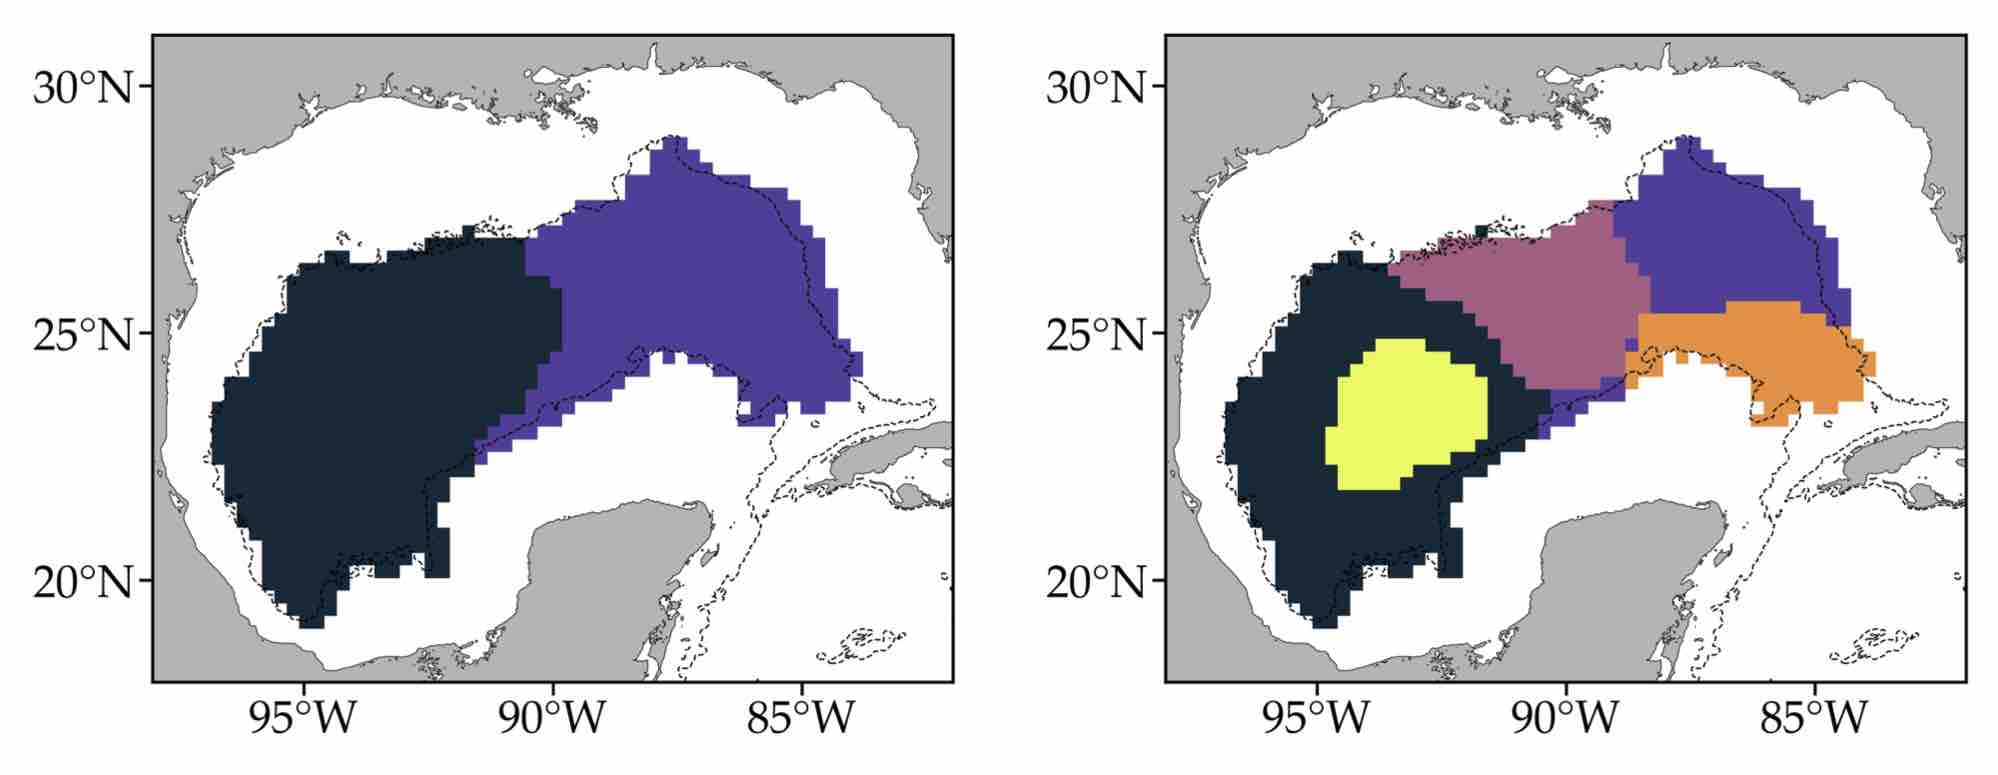
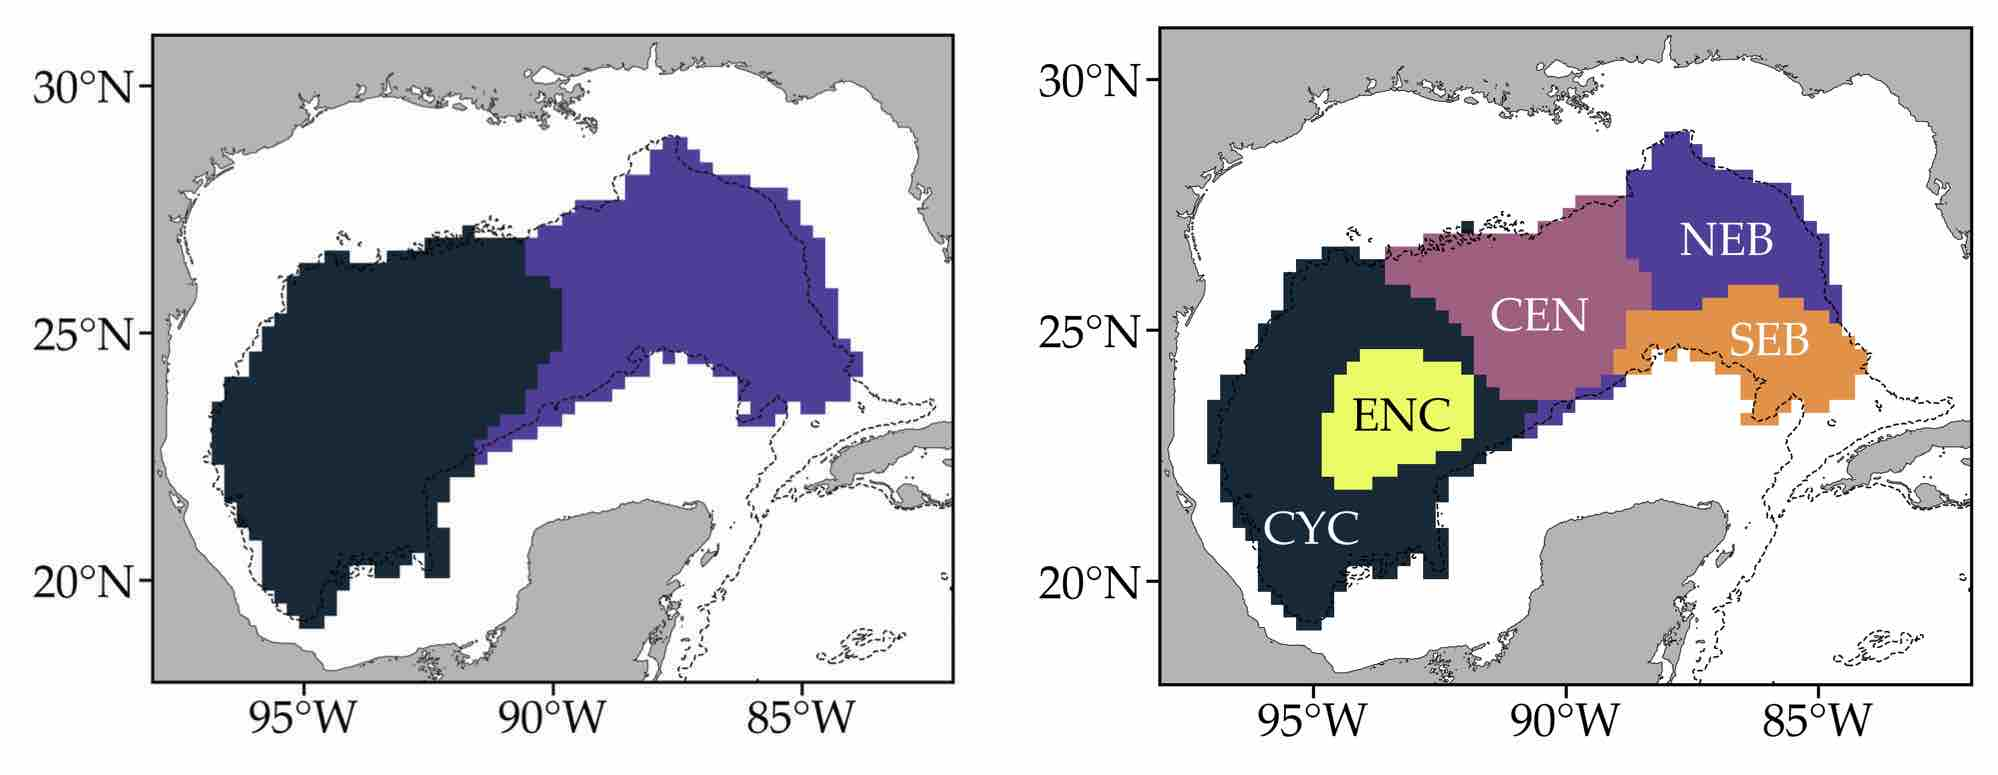
modify the theory sections and added connectivity and hitting time matrices

Changed region(s): [[0.4965, 0.031, 0.993, 0.96]]

diff --git a/2018. Deep floats (AGU)/main.tex b/2018. Deep floats (AGU)/main.tex
@@ -9,7 +9,7 @@
 % package/program, I grant the extra permission to freely copy and
 % modify this file as you see fit and even to delete this copyright
 % notice.
-\documentclass[show notes]{beamer}
+\documentclass[notes]{beamer}
 % There are many different themes available for Beamer. A comprehensive
 % list with examples is given here:
 % http://deic.uab.es/~iblanes/beamer_gallery/index_by_theme.html
@@ -49,17 +49,16 @@
 % A subtitle is optional and this may be deleted
 %\subtitle{Optional Subtitle}
 
-\author{Philippe Miron\inst{1},  Francisco J. Beron-Vera\inst{1}, Mar\'ia J. Olascoaga\inst{1} and Gary Froyland\inst{2}}
-
+\author{Philippe Miron\inst{1},  Francisco J. Beron-Vera\inst{1}, Mar\'ia J. Olascoaga\inst{1}, J.\ Sheinbaum\inst{2}, P.\ P\'erez-Brunius\inst{2} and Gary Froyland\inst{3}}
 \institute
 {
   \inst{1}%
   RSMAS University of Miami, Miami, USA
-  %\and
-  %\inst{2}%
-  %RSMAS/OCE University of Miami, Miami, USA
   \and
-  \inst{2}%
+  \inst{2}
+  CICESE, Ensenada, Mexico
+  \and
+  \inst{3}%
   University of New South Wales, Sydney, Australia
   }
 % - Use the \inst command only if there are several affiliations.
@@ -101,14 +100,14 @@
 % titlepage logo
 \titlegraphic{
 \begin{tikzpicture}[overlay, remember picture]
+%\node[at=(current page.south west), anchor=south west] {%
+% \includegraphics[height=.10\textwidth]{carthe.png} 
+%};
 \node[at=(current page.south west), anchor=south west] {%
- \includegraphics[height=.10\textwidth]{carthe.png} 
-};
-\node[at=(current page.south), anchor=south] {%
- \includegraphics[height=.13\textwidth]{cigom.jpg} 
+ \includegraphics[height=.18\textwidth]{cigom.jpg} 
 };
 \node[at=(current page.south east), anchor=south east] {
- \includegraphics[height=.10\textwidth]{um-rsmas.png}
+ \includegraphics[height=.14\textwidth]{um-rsmas.png}
 };
 \end{tikzpicture}
 }
@@ -140,8 +139,8 @@
 \pgfplotsset{compat=1.12}
 
 % Definitions.
-\def\vol{\mathop{\rm area}}
-
+\DeclareMathOperator{\area}{area}%
+\DeclareMathOperator{\Id}{Id}%
 \newcommand{\PF}{\mathcal{P}}
 \newcommand{\ia}{\textit{a}}
 \newcommand{\ib}{\textit{b}}
@@ -152,6 +151,7 @@
 \let\vaccent=\v 
 \renewcommand{\v}[1]{\ensuremath{\mathbf{#1}}} 
 \newcommand{\minus}{\scalebox{0.5}[1.0]{$-$}}
+\newcommand{\dif}{\ensuremath{\text{d}}}
 
 % Let's get started
 \begin{document}
@@ -183,14 +183,16 @@ Over the last twenty five years, many satellite-tracked surface drifters sampled
 \frame{\frametitle{Introduction}
 In contrast, very few studies were aimed at the characterization of the deep water global circulation. 
 \newline\newline
-RAFOS experiments sponsored by the Bureau of Ocean Energy Management (July 2011 - May 2015) courtesy Alexis Lugo Fernandez:
+RAFOS experiment sponsored by the Bureau of Ocean Energy Management (July 2011 - May 2015):
 \begin{itemize}
+\item 4-year-long program (floats $\sim 2$-y mission)
 \item 121 floats at 1500\,m
+\item 6 profiling floats with RAFOS technology at 1500\,m
 \item 31 floats at 2500\,m
-\item 4-year mission (floats $\sim 2$-y mission and are redeployed)
+
 \end{itemize}
 
-\textit{Publicly available data sets compiled by WOCE Subsurface Float Data Assembly Center (WFDAC)}\footnote{\url{http://www.aoml.noaa.gov/phod/float_traj/data.php}}
+\textit{Publicly available data sets compiled by WOCE Subsurface Float Data Assembly Center (WFDAC).}\footnote{\url{http://www.aoml.noaa.gov/phod/float_traj/data.php}}
 }
 
 \section{Objectives}
@@ -199,127 +201,46 @@ RAFOS experiments sponsored by the Bureau of Ocean Energy Management (July 2011 
 Using floats data (trajectories) in the abyssal Gulf of Mexico (\gom):
 \begin{itemize}
     \item subdivide the deep \gom\ into regions with similar dynamics;
-    \item identify sinks and sources (attractors and basins of attraction);
+    \item identify almost invariant region and their respective timescale;
     \item predict transport of \textit{passive tracers}.
 \end{itemize}
 }
 
-% Section and subsections will appear in the presentation overview
-% and table of contents.
-\frame{\frametitle{Theory: flowmap $F$}
-Given the drifter paths, we wish to access the map $x \mapsto F(x)$ that determines how the drifters change positions. 
+\frame{\frametitle{Theory: transfer operator $\mathcal{P}$}
+We want to predict at a time $T$ the dispersion of a an initial density $\rho(x,0) = f(x)$.
 \newline\newline
-If the ocean flow was stationary in some statistical sense, then the velocity could be express has $v(x)$.  If this case, we could simply solve the ODE $\dot{x} = v(x)$ to get $F$, the flow map, and \emph{move around} any function, such has a tracer distribution $f(x)$.
+This is given by the push forward of f(x),
+\begin{equation}
+    \rho(x,T) = \int_X f(y) k(x,y) \dif y = \mathcal{P}\,f(x)
+\end{equation}
+under the action of an advection-diffusion process that can be described via a bounded stochastic kernel $k$.
+
 }
+
+\note{Note that it is independant of initial T}
 
 \frame{\frametitle{Theory: transfer operator $\mathcal{P}$}
-This is done by composing $f$ with $F^{-1}$ and it defines a transfer operator $\mathcal{P}$ as the linear operator such that
-\begin{equation}
-    \mathcal{P}\!f(x) = f \circ F^{-1}(x).
-\end{equation}
 
-\only<2>{
-Why $F^{-1}$?
+\textcolor{red}{clean this}
+A discretization of the transfer operator can be attained using a Galerkin approximation referred to as Ulam's method\cite{ulam1960}. This involves partitioning the domain $X$ into a grid of $N$ connected boxes $\{B_1,\dotsc,B_N\}$ and projecting functions in $L^1(X)$ onto a finite-dimensional space approximating $L^1(X)$ and spanned by indicator functions on the grid.
 
-Example, if $F$ moves 2 units to the right the distribution $f(x)$.
-\begin{figure}[!ht]
-\centering
-\begin{tikzpicture}
-% plot curve at t0
-\begin{axis}[
-width=4.5cm,
-height=4cm,
-xmin=0, xmax=5,
-ymin=-1.25, ymax=1.25,
-ylabel={$f(x)$},
-xlabel={$x (t_0)$},
-axis y line=right,
-axis x line=bottom,
-axis line style={-}
-]
-\addplot[domain=0:5,thick]{sin(deg(x))};
-\draw[dashed,color=red] (0,-1) -- (0,1);
-\end{axis}
-\draw [<-] (0,2.4) -- (0.5, 2.7) node[right] {$F^{-1}(x=2)$};
-\end{tikzpicture}\hspace{0.25cm}
-\begin{tikzpicture}
-% plot curve at t0+t
-\begin{axis}[
-width=4.5cm,
-height=4cm,
-xmin=0, xmax=5,
-ymin=-1.25, ymax=1.25,
-ylabel={$\mathcal{P}f(x)$},
-xlabel={$x (t > t_0)$},
-axis y line=right,
-axis x line=bottom,
-axis line style={-}
-]
-\addplot[domain=0:5,thick]{sin(deg(x-2))};
-\draw[dashed,color=red] (2,-1) -- (2,1);
-\end{axis}
-\end{tikzpicture}
-\end{figure}
+We assume from now on that the grid is regular, i.e., $\area(B_i)
+= \area(B_j)$ for all $i\neq j$.
 }
 
-}
 
-\frame{\frametitle{Theory: transfer operator $\mathcal{P}$}
-For $F$ representing a non-autonomous flow as above, $\mathcal P
-\!f(x)$ is the solution of
-\begin{equation}
-  \partial_t\rho + v\cdot\nabla\rho = 0,\quad
-  \rho(x,t = 0) = f(x).
-\end{equation}
 
-In our case, \underline{$F$ is unknown and we only have access to trajectories}. We will use a discrete method to approximate $\mathcal{P}$.
-}
 
-\frame{\frametitle{Theory: transition matrix}  
-Partition the domain into equal-size bins $\{B_i,\cdots,B_N\}$ (a regular grid) and consider the indicator function of set $B_i$: 
- \begin{equation} 
-	\mathbf{1}_{B_i}(x) =
-  \begin{cases}
-    1  & \text{if } x \in B_i,\\
-    0  & \text{if } x \notin B_i.
-  \end{cases}
-\end{equation} 
-
-Note that $V_N := \{\mathbf{1}_{B_1}(x),\cdots,\mathbf{1}_{B_N}(x)\}$ is a discrete orthornormal basis w.r.t. the inner product
-\begin{equation}
-    \langle \bullet, \mathbf 1_{B_i}(x)\rangle = \frac{1}{\vol(B_i)}\int_{B_i} \bullet\, \mathbf 1_{B_i}(x)\,d^2x = \overline{(\bullet)}^{B_i}.
-\end{equation}
-
-Then, project $f(x)$ on the basis $V_N$, called Ulam basis \citep{ulam1960}:
-\begin{equation}
-    \Pi_Nf(x) = \sum_1^N f_i \mathbf 1_{B_i}(x),\quad f_i = \langle f(x), \mathbf 1_{B_i}(x)\rangle = \overline{f(x)}^{B_i}
-\end{equation}
-where $\Pi_N$ is the projector.
-}
 
 \frame{\frametitle{Theory: how to construct the transition matrix}  
-In a similar manner one can project $\mathcal P$ on $V_N$:
-\begin{align}
-(\Pi_N\mathcal{P})_{ij} &=  \frac{1}{\vol(B_j)}
-\int_{B_j} \mathcal P \mathbf 1_{B_i}(x) \cdot
-\mathbf 1_{B_j}(x)\,d^2x\nonumber\\ 
-&= \frac{\vol(B_i \cap F^{-1}(B_j))}{\vol(B_i)} = P_{ij}.
-\end{align}
-The entries of $P$ can be viewed as transitional probabilities of moving from $B_i$ to $B_j$ (Markov Chain with bins $\equiv$ states):
+
+By considering a sufficiently large number of initial conditions we can estimate the entries:
 \begin{equation}
-   P_{ij} = \frac{\#\text{ of particles in }B_i\text{ that are mapped to }B_j}{\#\text{ of particles in }B_i}.
+   P_{ij} = \frac{\# x \text{ in }B_i\text{ at any time } t \text{ and in }B_j \text{ at  } t+T}{\#x\text{ in }B_i \text{ at any time }t}.
   \label{eq:Pnum}
 \end{equation}
-}
 
-\frame{\frametitle{Theory: transition matrix}  
-$P_{ij}$ gives us the action of $F$ at a coarse-grained level given by the partition. This introduces diffusion proportional to the size of $B_i$ and is solution of: 
-\begin{equation}
-  \partial_t\rho + v\cdot\nabla\rho =
-  D\nabla^2\rho \quad \text{with }
-  \rho(x,t = 0) = f(x),
-\end{equation}
-with $D \propto \vol(B_i)$.
+The entries of $P$ can be viewed as transitional probabilities of moving from $B_i$ to $B_j$. It defines a \textbf{Markov Chain} (with bins $\equiv$ states) of the dynamics.
 }
 
 \frame{\frametitle{Application of the transition matrix}
@@ -403,16 +324,48 @@ Eigenvectors associated with $\lambda_3=0.9832$ and $\lambda_5=0.9712$.
 
 Combination of the basins of attraction from the top right eigenvectors (by thresholding).
 \begin{figure}
-  \includegraphics[width=8.5cm]{geogomdeep-fig09.jpg}
+  \includegraphics[width=\textwidth]{geogomdeep-fig09.jpg}
 \end{figure}
 
 Residence timescale: 7-y left (black) and right (purple), 1-y middle (pink), 0.5-y gyre (yellow) and bottom right (orange)
 }
 
+\frame{\frametitle{Residence time}
+\begin{figure}
+  \includegraphics[width=\textwidth]{geogomdeep-fig09.jpg}
+\end{figure}
+}
+
+
+\frame{\frametitle{Connectivity matrix (1, 2, 4 weeks)}
+\begin{figure}
+  \only<1>{
+  \includegraphics[width=0.9\textwidth]{1wconnection.png}
+  }
+  \only<2>{
+  \includegraphics[width=0.9\textwidth]{2wconnection.png}
+  }
+  \only<3>{
+  \includegraphics[width=0.9\textwidth]{4wconnection.png}
+  }
+\end{figure}
+}
+
+\frame{\frametitle{Mean expected hitting time}
+The time $\tau$ for a trajectory in box $B_i$ to move out of $A$, also known also as the mean time to hit the complement of $A$ \citep{Norris-98}.
+\begin{equation} 
+  (\Id - P|_A)\tau/T = \mathbf{1},
+  \label{eq:tau}
+\end{equation} 
+\begin{figure}
+    \includegraphics[width=0.7\textwidth]{hitting_time.png}
+\end{figure}
+}
+
 \frame{\frametitle{Upwelling and Downwelling}
 From incompressibility, accumulation can be used to approximate vertical velocity $w$:
 \begin{equation}
-    h_{t_1} = h_{t_0} \frac{\vol_{t_0}}{\vol_{t_1}} \quad w \sim \frac{h_{t_1} - h_{t_0}}{dt}. 
+    h_{t_1} = h_{t_0} \frac{\area_{t_0}}{\area_{t_1}} \quad w \sim \frac{h_{t_1} - h_{t_0}}{dt}. 
 \end{equation}
 
 \begin{figure}
@@ -443,19 +396,21 @@ Tracer evolution from the infamous Deepwater Horizon oil spill.
 \frame{\frametitle{Argo floats}
  
 \only<1>{
-\begin{figure}
-  \includegraphics[width=\textwidth]{geogomdeep-fig12.jpg}
-  \caption{Argo floats}
-\end{figure}
-}
-
-\only<2>{
 
 Talk about the entrance ?! No floats exit ?
 \begin{figure}
   \includegraphics[width=10cm]{geogomdeep-fig13.jpg}
 \end{figure}
 }
+
+\only<2>{
+\begin{figure}
+  \includegraphics[width=\textwidth]{geogomdeep-fig12.jpg}
+  \caption{Argo floats}
+\end{figure}
+}
+
+
 }
 
 
@@ -463,7 +418,9 @@ Talk about the entrance ?! No floats exit ?
 \section{Conclusion}
 \frame{\frametitle{Thank you!}
 
-Paper is currently in review.
+Also a special thanks to Julio Paula Pérez Brunius
+
+Paper will be submit this week (we are hoping) !
 
 Future plans:
 \begin{itemize}
